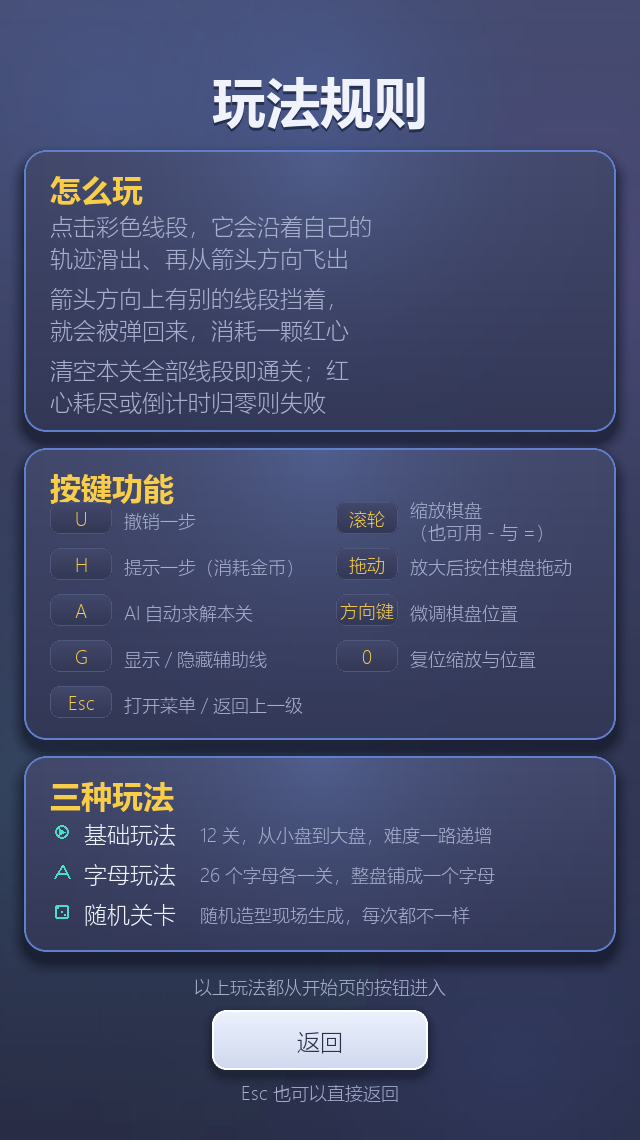
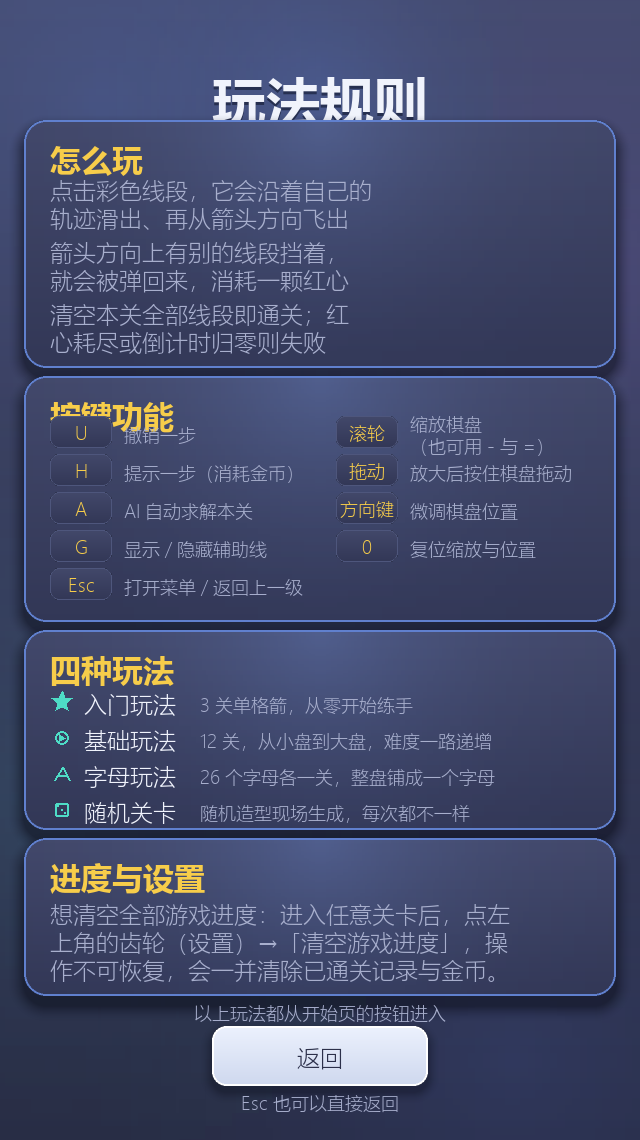
文档与截图：入门玩法选关页 + 规则页排版 + 标题居中配色（T19/T20）
- docs/test-record.md：升到 T01-T20，汇总 354 -> 360 passed；补记 T19，
  新增 T20 详述本轮五个问题（含「只有规则页溢出会报错，其余四个不抛异常
  也不让测试失败」这个结论）。
- docs/design.md：9.4 四个入口 -> 五个入口，状态机 8 -> 9 个；补一段
  「存档 id 与界面关号是两件事」（为什么 id 必须是 T1/T2/T3）。
- README：五个入口、入门玩法 3 关的说明、用例数 360、截图 23 张，
  新增入门选关 / 入门盘面两张截图。
- AIGC记录.md：汇总表新增第 24 行。
- tools/screenshot.py：新增 tutorial_select / playing_tutorial1 /
  tutorial_select_day 三张离屏截图，共 23 张重新导出。

Changed region(s): [[0.0312, 0.1228, 0.9688, 0.9825], [0.3438, 0.0921, 0.6875, 0.1228], [0.9375, 0.1228, 0.9688, 0.1535]]

diff --git a/tools/screenshot.py b/tools/screenshot.py
@@ -48,6 +48,21 @@ def main():
     game.open_rules()
     shoot(game, "rules.png")
 
+    # 入门玩法选关（三张宽卡，关号 1 / 2 / 3）
+    game.save.data["cleared"] = ["T1"]
+    game.save.data["stars"] = {"T1": 3}
+    game.open_tutorial_select()
+    shoot(game, "tutorial_select.png")
+
+    # 入门关盘面：整盘都是单格箭
+    game.use_track("tutorial")
+    game.level_index = 0
+    game.level_number = game._level_display_number(0)
+    game._load_level(game.tutorial_levels[0])
+    game.state = GameState.PLAYING
+    game._compute_geometry()
+    shoot(game, "playing_tutorial1.png")
+
     # 基础玩法选关
     game.open_basic_select()
     game.save.data["cleared"] = [1, 2]
@@ -150,9 +165,11 @@ def main():
     game.state = GameState.LEVEL_CLEAR
     shoot(game, "level_clear_day.png")
 
-    # 日间主题的规则页与字母选关：浅底上艺术字 / 胶囊是否还压得住
+    # 日间主题的规则页、入门选关与字母选关：浅底上艺术字 / 胶囊是否还压得住
     game.open_rules()
     shoot(game, "rules_day.png")
+    game.open_tutorial_select()
+    shoot(game, "tutorial_select_day.png")
     game.open_letter_select()
     shoot(game, "letter_select_day.png")
 

diff --git a/docs/test-record.md b/docs/test-record.md
@@ -1,8 +1,8 @@
-# 测试记录（T01 – T18）
+# 测试记录（T01 – T20）
 
 - 运行环境：Windows 11 / Python 3.14.0 / pygame-ce 2.5.8 / pytest 9.x
 - 运行方式：项目根目录执行 `python -m pytest -q`（测试在 SDL dummy 驱动下无窗口运行）
-- 汇总结果：**354 passed**，耗时约 24.3 s
+- 汇总结果：**360 passed**，耗时约 49 s
 
 ---
 
@@ -328,9 +328,10 @@
      `tools/generate_letters.py` 用与基础关相同的逆向构造法批量生成 26 关，
      难度沿字母序递进（`ray_pref` 0.45→0.90、开局可飞上限 0.58→0.30）；
   4. **状态机**：`game/states.py` 扩到 8 个状态（开始 / 规则 / 基础选关 / 字母选关 /
-     对局 / 过关 / 失败 / 全清），`main.py` 里用 `self.track`（"basic" / "letter"）
-     记录当前走的是哪条线，并把已有存档判重沿用 `current_level is levels[level_index]`
-     —— 随机关卡不属于任何列表、字母关的 id 是 `"A"`~`"Z"`，都天然不会和 1~12 撞车；
+     对局 / 过关 / 失败 / 全清；T20 再加一个入门选关，共 9 个），`main.py` 里用
+     `self.track`（"basic" / "letter" / "tutorial"）记录当前走的是哪条线，并把已有
+     存档判重沿用 `current_level is levels[level_index]` —— 随机关卡不属于任何列表、
+     字母关的 id 是 `"A"`~`"Z"`、入门关是 `"T1"`~`"T3"`，都天然不会和 1~12 撞车；
   5. **去掉 `N` 键**：`_handle_key` 删掉 `K_n` 分支，规则页的快捷键表里也去掉这一行。
 - **步骤**（逐条断言）：
   1. **字模**：26 个字母的点阵尺寸一致、每个字母的遮罩都非空、`LETTERS` 是排好序的
@@ -599,6 +600,75 @@
 - **结论**：开始页现在是「薄荷青/深蓝底 + 同色箭形暗纹 + 贴纸标题 + 卡通箭吉祥物 +
   蓝白交替的按钮」。参考图的配色与本项目日间那套本来就是同一套，所以日间基本重合、
   夜间是同一套结构换深色底 —— 这算是「类似但有一定改动」。
+
+---
+
+## T19 入门玩法教学关 + 标题二次美化 + 规则页清空进度（补记）
+
+- **触发**：开始页在「规则介绍」与「基础玩法」之间加「入门玩法」按钮（3 关，每关全是
+  单格箭）；美化「一箭又一箭」艺术字；规则页补上「如何清空游戏进度」；开始页删掉
+  基础 / 字母玩法的进度显示。
+- **改动**：
+  1. 入门玩法是第三条 track（`self.track = "tutorial"`），`TUTORIAL_LEVELS` 三关；
+     单格箭 `can_fly_arrow` 本来就支持（head 就是那一格、射线只查别的线段），不用特判。
+  2. 标题二次美化：`art_bar` 加纵向渐变 + 加厚，`_start_title_image` 调
+     `gap=8 / outline_width=7 / outline2_width=4 / lift=4`。
+  3. 规则页「三种玩法」→「四种玩法」，新增「进度与设置」面板（`PROGRESS_HELP`）。
+  4. 开始页删掉 `_draw_start_stats`，五个入口下移到 `540/630/720/810/900`。
+
+---
+
+## T20 规则页排版溢出 + 入门玩法选关页 + 关号 1/2/3 + 标题居中与配色
+
+- **触发**：玩家一次提了五件事 ——
+  ① 规则页文字排版有问题（底下被切掉）；
+  ② 「入门玩法」点进去**没有选择关卡界面**；
+  ③ 入门玩法的关卡排序应该是 **1 / 2 / 3**，不要 101 / 102；
+  ④ 入门关卡**箭头太少**；
+  ⑤ 艺术字的**胶囊条要跟旁边的字居中**，且**第二个字和第三个字颜色要不一样**。
+- **改动**：
+  1. **规则页溢出**（真 bug）：`esc_y = 1318`，画面只有 1140 —— 底部提示与返回按钮
+     全在画面外。版式常量整体收紧（`RULES_TOP 150→120`、`RULES_GAP 16→8`、
+     `RULES_LINE_H 32→28`、`RULES_KEY_ROW_H 46→38`、`RULES_KEYS_PAD_TOP 70→56`、
+     `RULES_MODES_H 236→200`），玩法四行的行距 `40→36`，底部三行的间距也收了一档。
+     现在 `esc_y = 1102`，四块面板的内容也都还在各自面板内。
+  2. **入门选关页**：新增第 9 个状态 `GameState.TUTORIAL_SELECT` + `open_tutorial_select()`
+     + `_draw_tutorial_select()`。开始页「入门玩法」按钮从「直接开第 1 关」改成进这一页；
+     `open_select` / `leave_level` / Esc / 事件分发都补上这条分支，靶心回的也是这一页。
+     三关做成三张宽卡（500×130）竖排，不设解锁条件。
+  3. **关号 1/2/3**：存档 id 改成 `T1/T2/T3`（**不能**用 1/2/3 —— 存档按 id 判重，
+     会和基础关 1~12 撞车，清掉基础第 1 关会顺手把入门第 1 关标成已通关）。
+     显示关号改由 `_level_display_number(index)` 按列表下标算，入门线固定返回
+     `index + 1`，其余玩法沿用 id。
+  4. **箭头加倍**：三关从 3 / 4 / 5 支加到 **8 / 8 / 10** 支。入门 1 是贴着四边朝盘外的
+     八支自由箭；入门 2 是中间一排六支首尾相接的阻挡链 + 两支自由箭；入门 3 是上下
+     两条各四支的链 + 两支自由箭。全部单格箭，`generator.verify_solution` 逐关验过。
+  5. **胶囊条居中**：`art_banner` 原来按**底边**对齐摆片（`height - part.get_height()`），
+     横条比字矮一截就被压到字的下沿，实测墨迹中心差 **27 px**。改成按**墨迹中心**
+     对齐（参考线取最高那一片的 `ink.centery`，每片摆到 `ref - ink.centery`）。
+  6. **「又」换色**：`Palette` 新增 `art_alt2_top / art_alt2_bottom`（暖金），标题变成
+     红条 / 奶白「箭」/ 金「又」/ 蓝条 / 绿「箭」五色。
+- **用例**（新增 8 条，改 3 条）：
+  1. `test_rules_panels_stack_without_overlapping` —— 这条之前就是**失败**的
+     （`esc_y 1318 < 1140` 不成立），修完才过。**它是本轮唯一会自己报错的信号**，
+     其余四个问题都不会抛异常，只能靠量化发现；
+  2. 胶囊条与字的墨迹中心必须落在同一条线上（容差 6 px）—— 改之前差 27 px；
+  3. 标题三个字的字面色两两不同；
+  4. 开始页五个入口、状态机九个状态都能渲染（`test_every_screen_renders_with_depth`）；
+  5. 「入门玩法」按钮进的是选关页、三张卡都点得开且关号依次为 1/2/3；
+  6. 入门关 id 不与基础关 / 字母关相交；
+  7. 每关至少 8 支箭、全是单格箭、`verify_solution` 通过；
+  8. 入门关整条链路：选关 → 第 1 关 → 通关（进度只落在 `T1`，不串到基础第 1 关）
+     → 下一关关号 2 → 靶心回入门选关页 → Esc 回开始页。
+- **预期**：全部通过。
+- **实际**：全量 **360 个用例**全过（49 s）。中间量到两处需要回改：
+  - 入门选关页第一版把三关横排一行，卡片只占 250~400，**下半屏空掉一大块**；
+    改成三张宽卡竖排到 684，跟基础选关页的节奏对齐；
+  - 卡片上的说明文字第一版超宽（353~389 px vs 可用 300 px），把三句 desc 缩短到
+    227~245 px 才放进卡里。
+- **结论**：五个问题里只有规则页溢出是「会报错的」，其余四个（没有选关页、关号显示
+  101、箭太少、胶囊条掉到字下面）都是**不抛异常、测试也照样过**的那一类，只能靠
+  把版面量成数字、再逐项写成回归断言盯住。
 
 ---
 

diff --git a/AIGC记录.md b/AIGC记录.md
@@ -33,6 +33,7 @@
 | 21 | 规则页「怎么玩」文字排布 | DeepSeek | 玩家反馈「玩法规则这一页怎么玩这一栏文字排布不对」 | 根因是正文**写死一行**：26 字 × 23 px = 598 px，而卡片内宽只有 540 px，句子直接画到卡片外面（不报错、不抛异常、测试也照样过）；按键表右列的「缩放棋盘（也可用 - 与 =）」同样超出 8 px。新增 `paint.wrap_text()`（切单元 → 贪心 → **二分有效宽度做均衡** → 避头尾），规则页改成 `_compute_rules_layout()` **按内容累加**：先折行拿到正文行数，再据此算每块面板的高度，结果算一次缓存 | 三句话各折成两行且宽度摊匀（322/299、299/299、299/276），标点不落行首，全角括号整段不拆；三块面板依次下移、返回按钮跟着走；新增 8 条用例（含「量文字实际渲染宽度」的核心回归），全量 352 个用例通过 | 纯贪心折出的是「满满一行 + 两三个字的尾巴」（`…方向飞出` / `…颗红心` / `…失败`），很难看 —— 均衡折行才是对的做法；这类溢出**不会报错**，只能靠「量渲染宽度」的测试兜住 |
 | 22 | 背景柔雾 + 按键配色 | DeepSeek | 玩家要求「开始界面的背景换成跟截图里面类似的（但要有一定改动），按键配色也是」 | 先逐像素采样参考图，确认它用的就是本项目的**日间**配色（按钮蓝 `117,166,243 → 89,140,228`、文字 `42,46,70`、进度条 `38,176,164` 全部对得上），于是方向定为「同一套结构，夜间换深色底」。新增 `Palette.fog`（四团错开的柔雾，**只在非对局界面**铺 —— 对局中会压住棋盘）、`paint.fog_layer()` 预合成成一张整屏贴图；新增 `Palette.ghost_*`，次要按钮从「深底白字」改成**浅色纸片 + 深字**（夜间的纸片是浅蓝白，纯白会晃眼） | 菜单类界面有了雾面层次，开始页按钮是「蓝 / 白 / 蓝 / 白」的节奏；柔雾让开始页 2.90 → 4.15 ms，预合成之后回到 3.38 ms；新增 2 条用例，全量 352 个通过 | 日间的雾是**压暗**而不是提亮（浅底叠淡蓝会降亮度），断言不能假定方向；旧的「次按钮比主按钮暗」那条断言的前提随设计反转一起作废，改成量「纸片比蓝底亮 / 蓝底明显偏蓝 / 纸片上是深字」 |
 | 23 | 开始页暗纹底 + 卡通箭吉祥物 + 按键描边 | DeepSeek | 玩家给了一张开始页设计稿（薄荷青底 + 箭形暗纹 + 标题下方一只带脸的蓝色卡通箭），要求「标题下方那个箭」「背景换成跟截图里面类似的（但要有一定改动）」「按键配色也是」 | 新增 `paint.pattern_layer()` / `blit_pattern()`：底色渐变 + 平铺的同色箭形暗纹合成成**一张不透明贴图**，图案复用游戏自己的 `_arrow_shape`（隔行错开半格、奇偶格上下翻转），`Palette` 补 `menu_top/menu_bottom/pattern/pattern_alpha`；新增 `paint.arrow_mascot()`：投影 / 外描边 / 渐变箭身 / 贴边暗面 / 高光块 + 四角星 / 一张脸（眼白、瞳孔、高光点、两道眉毛、一道笑），整体倾斜 10°，`Palette` 补 7 个 `mascot_*` 字段；主按钮改成参考图那种「亮蓝填充 + **比填充更深**的描边」（`btn_line` 从「比填充亮」翻转）；开始页整体重排给吉祥物让位 | 开始页变成「薄荷青（日间）/ 深蓝（夜间）+ 同色箭形暗纹 + 贴纸标题 + 卡通箭吉祥物 + 蓝白交替按钮」，占屏宽 49% 的吉祥物夹在副标题与按钮之间互不重叠；新增 2 条用例、改 3 条，全量 354 个通过；开始页中位 **3.02 ms**（比上一版 3.38 还低，因为底整块预合成了） | 第一版画出来完全不像箭，连挖三个坑：① 圆角靠「在顶点画圆」，圆鼓到边的外侧，剪影成了**一根骨头** → 改成正规圆角多边形（角平分线内缩 r/tan(θ/2) 得切点、圆心距两边为 r，切点还得按绕行顺序连，否则连成蝴蝶结）；② 渐变只铺在「箭身框」内，箭尾圆头伸到框外被 `BLEND_RGBA_MULT` 乘成透明、**露出深色描边**（看着像尾巴被烧黑）→ 渐变铺满画布；③ 五官直接画在画布上会**浮在箭身外面** → 五官单独成层再用剪影 `BLEND_RGBA_MULT` 裁一刀 |
+| 24 | 规则页溢出 + 入门玩法选关页 + 关号 1/2/3 + 标题居中与配色 | DeepSeek | 玩家一次提五件事：① 规则页文字排版有问题（底下被切掉）；② 「入门玩法」点进去**没有选择关卡界面**；③ 入门关卡排序要是 **1/2/3**，不要 101/102；④ 入门关卡**箭头太少**；⑤ 艺术字的**胶囊条要跟旁边的字居中**，且**第二个字和第三个字颜色不一样** | ① 量出 `esc_y = 1318` 而画面只有 1140（返回按钮整块在画面外），版式常量整体收紧（`RULES_TOP 150→120`、`RULES_GAP 16→8`、`RULES_LINE_H 32→28`、`RULES_KEY_ROW_H 46→38`、`RULES_KEYS_PAD_TOP 70→56`、`RULES_MODES_H 236→200`，玩法四行行距 40→36），现在 `esc_y = 1102`；② 新增第 9 个状态 `TUTORIAL_SELECT` + `open_tutorial_select()` + `_draw_tutorial_select()`（三张 500×130 宽卡竖排、不设解锁），按钮从「直接开第 1 关」改成进这一页，`open_select` / `leave_level` / Esc / 事件分发都补上这条分支；③ 存档 id 改成 `T1/T2/T3`（**不能**用 1/2/3，会和基础关撞车），显示关号改由 `_level_display_number(index)` 按列表下标算；④ 三关箭数 3/4/5 → **8/8/10**（贴边自由箭 / 六支一排的阻挡链 / 上下两条链），`verify_solution` 逐关验过；⑤ `art_banner` 从**底边对齐**改成**墨迹中心对齐**（原来横条被压到字的下沿，中心差 27 px）；⑥ `Palette` 新增 `art_alt2_*`（暖金）给「又」，标题成五色 | 五个问题里**只有规则页溢出是会报错的**（`test_rules_panels_stack_without_overlapping` 这条之前就是失败的），其余四个都不抛异常、测试也照样过；新增 8 条用例（胶囊条居中、三字三色、五个入口 / 九个状态渲染、选关页点得开关号 1/2/3、id 不与基础字母关相交、每关 ≥8 支且可解、入门整条链路含「进度只落在 T1 不串到基础第 1 关」），改 3 条；全量 **360 个用例**通过；截图补 `tutorial_select` / `playing_tutorial1` / `tutorial_select_day` 三张（共 23 张） | 入门选关页第一版把三关横排一行，卡片只占 250~400、**下半屏空掉一大块** → 改成三张宽卡竖排到 684，跟基础选关页节奏对齐；卡上说明文字第一版超宽（353~389 px vs 可用 300 px），把三句 desc 缩短到 227~245 px 才放进卡里；**最大的教训**：这五个问题里有四个（没有选关页、关号显示 101、箭太少、胶囊条掉到字下面）都属于「不抛异常、测试也照样过」，只能靠把版面量成数字、再逐项写成回归断言盯住 |
 
 ---
 

diff --git a/README.md b/README.md
@@ -5,8 +5,9 @@
 点击一条线段，它会沿自己的折线轨迹滑出棋盘、再顺箭头方向飞出屏幕；如果箭头前方被
 别的线段挡住，则被弹回、扣一颗红心。清空全部线段即通关，红心耗尽或倒计时归零则失败。
 
-开始页有四个入口：**规则介绍**、**基础玩法**（12 关）、**字母玩法**（26 个字母各一关，
-整盘铺成那个字母）、**随机关卡**（随机造型现场生成）。
+开始页有五个入口：**规则介绍**、**入门玩法**（3 关单格箭，给新手练手）、**基础玩法**
+（12 关）、**字母玩法**（26 个字母各一关，整盘铺成那个字母）、**随机关卡**（随机造型
+现场生成）。
 
 ## 开发环境
 
@@ -44,13 +45,16 @@ python main.py
 | 底部 `#` | 辅助线点阵开关 |
 | 拖拽窗口边框 | 整幅画面等比缩放（窗口尺寸、棋盘几何都跟着变） |
 | 快捷键 | `U` 撤销 · `H` 提示 · `A` AI 自动求解 · `G` 辅助线 · `Esc` 菜单与返回 |
-| 开始页 | 四个入口：规则介绍 / 基础玩法 / 字母玩法 / 随机关卡（随机关卡不再占用字母键） |
+| 开始页 | 五个入口：规则介绍 / 入门玩法 / 基础玩法 / 字母玩法 / 随机关卡（随机关卡不再占用字母键） |
 
 > 棋盘只在放大到超出可视区时才拖得动（缩小状态下本来就整块看得见，位置锁在正中）。
 > 拖动被夹在可视区里：最多拖到棋盘边缘与可视区边缘对齐，绝不会把棋盘拖出屏幕找不回来。
 
 ## 玩法与关卡
 
+- **入门玩法：3 个关卡**（关号 1 / 2 / 3），每支箭都是**单格箭**，专门给新手练手：
+  第 1 关八支箭全朝盘外、点哪支都能立刻飞；第 2 关一排六支首尾相接，只能从最右边
+  往左点；第 3 关上下两条链，先清挡路的再清被挡的。三关全部开放，不设解锁条件。
 - **基础玩法：12 个关卡**，造型依次为方形、圆形、菱形、十字、心形、三角、沙漏、圆环等。
 - **字母玩法：26 个字母各一关**。先把 A–Z 的字模（`game/letters.py` 的 5×7 点阵）
   按 3 倍放大成棋盘遮罩，再用同一套逆向构造法往里铺线段 —— 于是每一关整盘就是
@@ -143,22 +147,26 @@ arrow-after-arrow/
 ## 测试与工具
 
 ```bash
-python -m pytest -q                    # 354 个用例，无窗口运行
+python -m pytest -q                    # 360 个用例，无窗口运行
 python tools/generate_levels.py        # 重新生成基础玩法 12 关
 python tools/generate_levels.py --check  # 校验现有 level.py：可通、可解、有阻挡
 python tools/generate_levels.py --stats  # 打印 12 关的难度表
 python tools/generate_letters.py A B   # 重新生成字母玩法里指定的几个字母
 python tools/generate_letters.py --check # 校验 26 个字母关（连通 / 可解 / 有阻挡）
 python tools/generate_letters.py --stats # 打印 26 个字母关的难度表
-python tools/screenshot.py             # 重新导出 README 用的 20 张截图
+python tools/screenshot.py             # 重新导出 README 用的 23 张截图
 python tools/perf_bench.py             # 打印各界面 × 日夜主题的整帧耗时
 ```
 
 ## 游戏截图
 
-| 开始界面（暗纹底 + 贴纸标题 + 卡通箭吉祥物 + 四个入口） | 规则介绍（玩法 + 按键功能表） |
+| 开始界面（暗纹底 + 贴纸标题 + 卡通箭吉祥物 + 五个入口） | 规则介绍（玩法 + 按键功能表） |
 |---|---|
 | ![开始](assets/screenshots/start.png) | ![规则](assets/screenshots/rules.png) |
+
+| 入门玩法选关（3 关，关号 1 / 2 / 3） | 入门第 1 关（全是单格箭） |
+|---|---|
+| ![入门选关](assets/screenshots/tutorial_select.png) | ![入门盘面](assets/screenshots/playing_tutorial1.png) |
 
 | 字母玩法选关（26 个字母） | 字母关盘面（整盘铺成一个字母 M） |
 |---|---|

diff --git a/docs/design.md b/docs/design.md
@@ -747,22 +747,29 @@ C 的字模          放大后（3 倍）
 字母的笔画窄（`scale=3` 时只有 3 格宽），默认的 26 格会让一支箭一口吞掉整条笔画
 （早期 L 关曾经只剩 3 支箭），压到 20 之后箭数才够看。
 
-### 9.4 四个入口与状态机
+### 9.4 五个入口与状态机
 
-开始页原来只有「开始游戏 / 关卡选择」，现在换成四个平级入口：
+开始页原来只有「开始游戏 / 关卡选择」，现在换成五个平级入口：
 
 | 入口 | 目标状态 | 说明 |
 |---|---|---|
-| 规则介绍 | `RULES` | 玩法 + 按键功能表 + 三种玩法；返回时回到进来的那一屏 |
+| 规则介绍 | `RULES` | 玩法 + 按键功能表 + 四种玩法；返回时回到进来的那一屏 |
+| 入门玩法 | `TUTORIAL_SELECT` | 3 关单格箭，全部开放（T20 之前是直接开第 1 关，没有选关页） |
 | 基础玩法 | `BASIC_SELECT` | 12 关，逐关解锁 |
 | 字母玩法 | `LETTER_SELECT` | 26 个字母，全部开放 |
 | 随机关卡 | 直接 `PLAYING` | 现场生成，不进选关页、不写存档 |
 
-「当前在玩哪一套关卡」用一个 `self.track`（`"basic"` / `"letter"`）+ `self.levels`
-指向对应的那份列表来表达。这样第 4 章那套「`current_level is levels[level_index]`
-才算主线关卡」的存档判断原样可用：随机关卡不在任何列表里，自然不会写进存档；
-字母关的 id 是字符串 `"A"`~`"Z"`，和基础关卡的 `1`~`12` 在同一个 `cleared`
-列表里也不会撞。
+「当前在玩哪一套关卡」用一个 `self.track`（`"basic"` / `"letter"` / `"tutorial"`）
++ `self.levels` 指向对应的那份列表来表达。这样第 4 章那套
+「`current_level is levels[level_index]` 才算主线关卡」的存档判断原样可用：
+随机关卡不在任何列表里，自然不会写进存档；字母关的 id 是字符串 `"A"`~`"Z"`、
+入门关是 `"T1"`~`"T3"`，和基础关卡的 `1`~`12` 在同一个 `cleared` 列表里也不会撞。
+
+**存档 id 和界面关号是两件事**：入门三关的 id 必须是 `T1/T2/T3` 而不是 `1/2/3`
+（后者会和基础关撞车，清掉基础第 1 关会顺手把入门第 1 关也标成已通关），但玩家
+看到的关号要按顺序是 1/2/3。所以显示的关号统一走 `Game._level_display_number(index)`：
+入门线按列表下标返回 `index + 1`，其余玩法沿用 id。T20 之前直接拿 id 当关号，
+界面上就显示成了 101/102/103。
 
 **按键表是数据，不是散落的字符串**：`main.KEY_HINTS` 是一个两列的元组，
 界面照它画、测试照它断言（包括「不再有 N 键」这条回归）。随机关卡从按键
@@ -776,8 +783,8 @@ C 的字模          放大后（3 倍）
 | 提示（花金币高亮下一步） | `main.use_hint` |
 | 撤销上一步 | `Board.snapshot / undo` + `main.undo` |
 | 倒计时与星级评价 | `main._update / _finish_level` |
-| 关卡选择界面（基础 12 关 / 字母 26 关） | `main._draw_level_select / _draw_letter_select` |
-| 开始页四个入口 + 规则介绍页 | `main._build_widgets / _draw_rules`、`main.KEY_HINTS` |
+| 关卡选择界面（入门 3 关 / 基础 12 关 / 字母 26 关） | `main._draw_tutorial_select / _draw_level_select / _draw_letter_select` |
+| 开始页五个入口 + 规则介绍页 | `main._build_widgets / _draw_rules`、`main.KEY_HINTS` |
 | 字母玩法（5×7 点阵字模 → 棋盘遮罩） | `game/letters.py` + `game/level_letters.py` |
 | 随机生成关卡 | `generator.random_level` |
 | JSON 本地存档 | `game/storage.py` |
